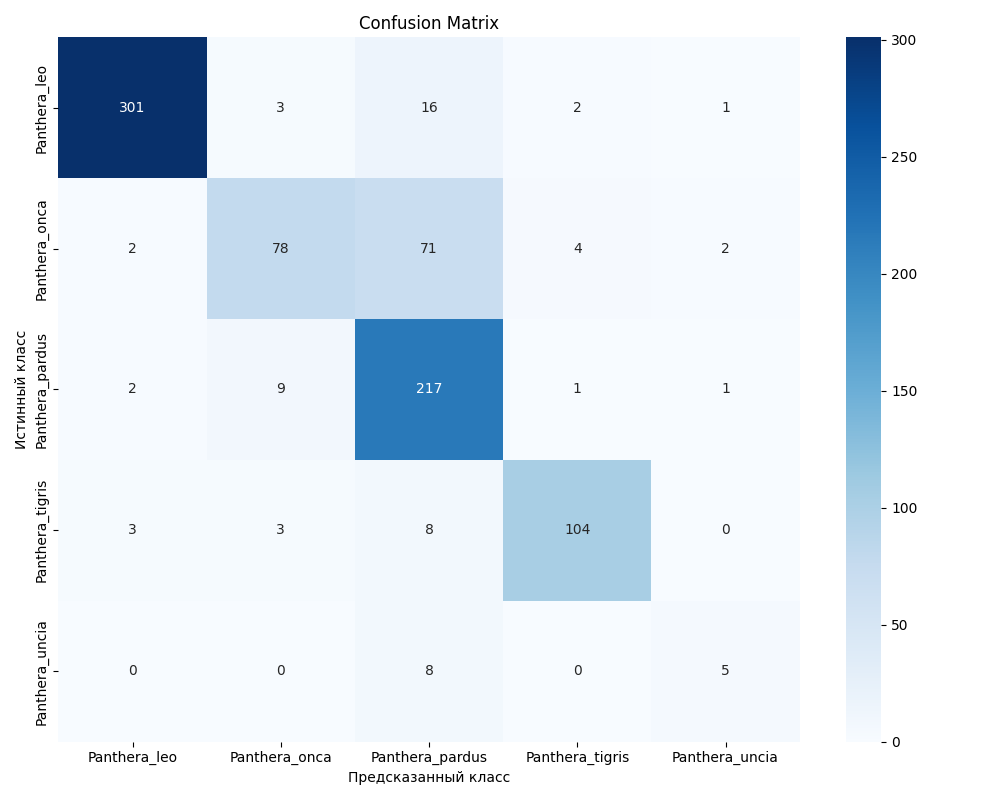
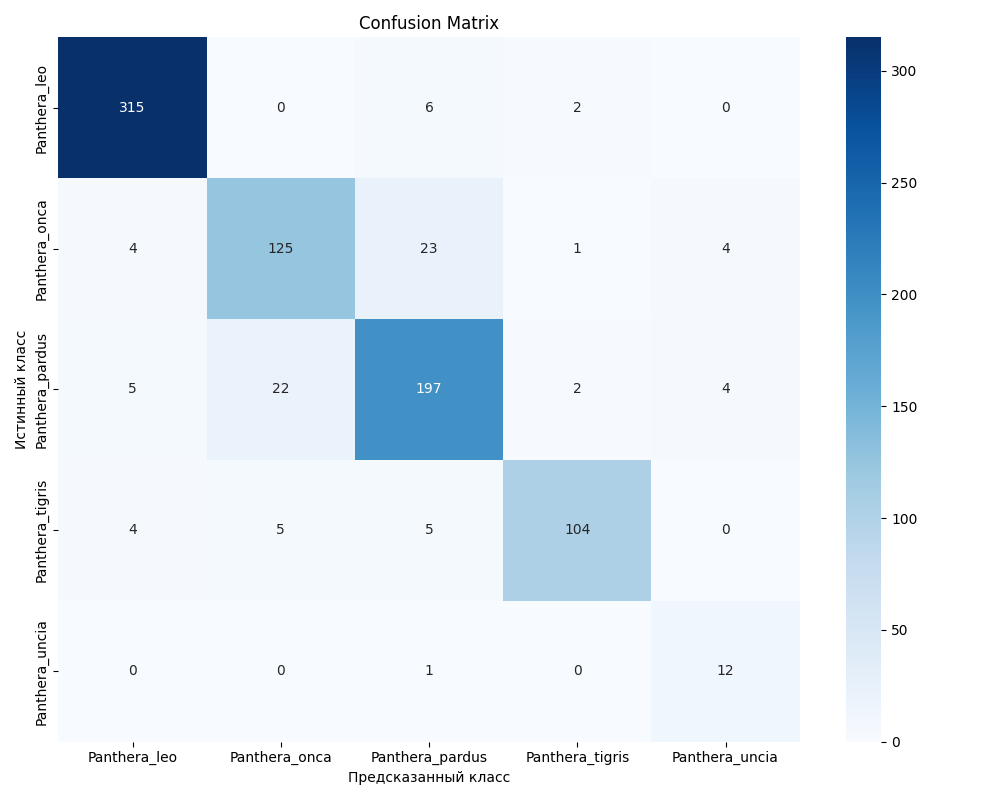
fine-tuned model on 12 epoсhs

diff --git a/README.md b/README.md
@@ -1,18 +1,104 @@
 # big-cats-cv-classification-ops
 
+Panthera Vision — это end-to-end MLOps проект для классификации и поиска изображений больших кошек (род Panthera). Проект использует дообученную модель EfficientNetV2 (fine-tuned) для классификации и генерации векторных представлений (эмбеддингов), а управление жизненным циклом данных и обучения осуществляется через пайплайн DVC (Data Version Control).
+
 ## Важно
-### Убедитись что путь к репозиторию не содержит символов КИРИЛИЦЫ иначе возникнет ошибка из-за особенностей устройства dvc 
+### Убедитись что путь к репозиторию не содержит символов КИРИЛИЦЫ иначе при запуске dvc (dvc repro) возникнет ошибка из-за особенностей устройства dvc 
 #### (PS. так как у меня инициализирован dvc (dvc init -f  --subdir) в поддиректрории корневой папки, где лежит .git, то из-за этого и возникает ошибка. Если бы .dvc был создан в корнейвой папке репозитория, рядом с .git, ошибок из-за кирилицы бы небыло)
 
-## Архитектура cv-classification-dvc-pipeline
+## Проект состоит из двух основных модулей:
+0. Тестовая реализация на jupyter-notebook
+1. Пайплайн классификации: Обучение модели с управлением через DVC
+2. Сервис поиска изображений: Микросервис для поиска визуально похожих объектов с использованием FAISS.
 
-├── data/
-│   ├──data_from_iNaturalist/observations.csv
-│   ├──dataset.csv
-│   └──dataset_images/... # папки с классами изображений 
-├── src/                     
-│   ├── prepare.py           
-│   ├── download.py          
-│   └── train.py             
-├── dvc.yaml                 
-└──params.yaml              
+### Модель обучена различать 5 конкретных видов на основе данных из iNaturalist:
+
+Лев (Panthera leo)
+Тигр (Panthera tigris)
+Ягуар (Panthera onca)
+Леопард (Panthera pardus)
+Ирбис / Снежный барс (Panthera uncia)
+
+## Структура проекта
+Репозиторий организован по принципу монорепозитория и содержит два отдельных проекта:
+
+├── cv-classification-dvc-pipeline/    # Основной проект обучения (DVC)
+│   ├── data/ # Датасеты ниже игнорируются git
+│   │     ├──data_from_iNaturalist/observations.csv
+│   │     ├──dataset.csv
+│   │     └──dataset_images/... # папки с классами изображений                           
+│   ├── models/                        # Сохраненные модели (игнорируются git)
+│   ├── src/                           # Исходный код (обучение, подготовка, загрузка)
+│   ├── dvc.yaml                       # Конфигурация пайплайна DVC
+│   ├── params.yaml                    # Гиперпараметры и настройки
+│   └── web_app.py                     # Демо-приложение классификации
+│
+└── image_search/                      # Микросервис поиска
+    ├── faiss_index/                   # Векторная база данных
+    ├── model_weights/                 # Копия обученной модели из cv-classification-dvc-pipeline
+    ├── build_index.py                 # Скрипт создания векторного индекса
+    └── web_app.py                     # Демо-приложение поиска
+
+---
+## Модуль 1: Пайплайн классификации (DVC)
+
+### Запуск пайплайна DVC
+Весь жизненный цикл управляется файлом `dvc.yaml`. 
+```bash
+cd cv-classification-dvc-pipeline
+dvc repro
+```
+
+**Этапы пайплайна:**
+1.  `prepare`: Очистка сырых данных CSV, полученных из iNaturalist.
+2.  `download`: Загрузка изображений (с использованием кэширования `persist: true`).
+3.  `train`: Дообучение (Fine-tuning) **EfficientNetV2-S**. Сохраняется лучшая модель на основе глобальной точности валидации.
+4.  `evaluate`: Генерация матрицы ошибок и отчета о классификации на отложенной тестовой выборке.
+
+###  Запуск демо-приложения
+Запуск интерфейса Streamlit для классификации изображений:
+```bash
+streamlit run web_app.py
+```
+## Результаты и метрики
+
+Процесс обучения использует валидационную выборку для обеспечения надежности модели и предотвращения переобучения.
+*   **Global Best Accuracy:** Сохраняется в файле `results/training_history.json`.
+*   **Confusion Matrix:** Генерируется после этапа оценки для анализа ошибок классификации (например, частота путаницы между Ягуаром и Леопардом).
+
+Для просмотра метрик через DVC:
+```bash
+dvc metrics show
+dvc plots show
+```
+---
+
+## Модуль 2: Поиск похожих изображений (DVC)
+
+Это автономный проект, который использует обученную модель в качестве экстрактора признаков (Feature Extractor) и библиотеку FAISS для быстрого векторного поиска. Он позволяет находить визуально похожие изображения
+
+### 1. Инициализация данных
+Необходимо предоставить обученную модель:
+Скопируйте `best_model.pth` из основного проекта dvc в `image_search/model_weights/`.
+
+### 2. Запуск пайплайна DVC
+Перейдите в директорию поиска:
+```bash
+cd image_search
+dvc repro
+```
+### Запуск приложения поиска
+Загрузите изображение, чтобы найти топ-10 похожих объектов в базе данных:
+```bash
+streamlit run web_app.py
+```
+---
+
+## Стек технологий
+
+*   **Deep Learning:** PyTorch, Torchvision (EfficientNetV2, Transfer Learning).
+*   **MLOps:** DVC (Data Version Control), Git.
+*   **Computer Vision:** PIL, OpenCV.
+*   **Vector Search:** FAISS (Facebook AI Similarity Search).
+*   **Data Processing:** Pandas, NumPy.
+*   **Visualization & UI:** Streamlit, Matplotlib, Seaborn.
